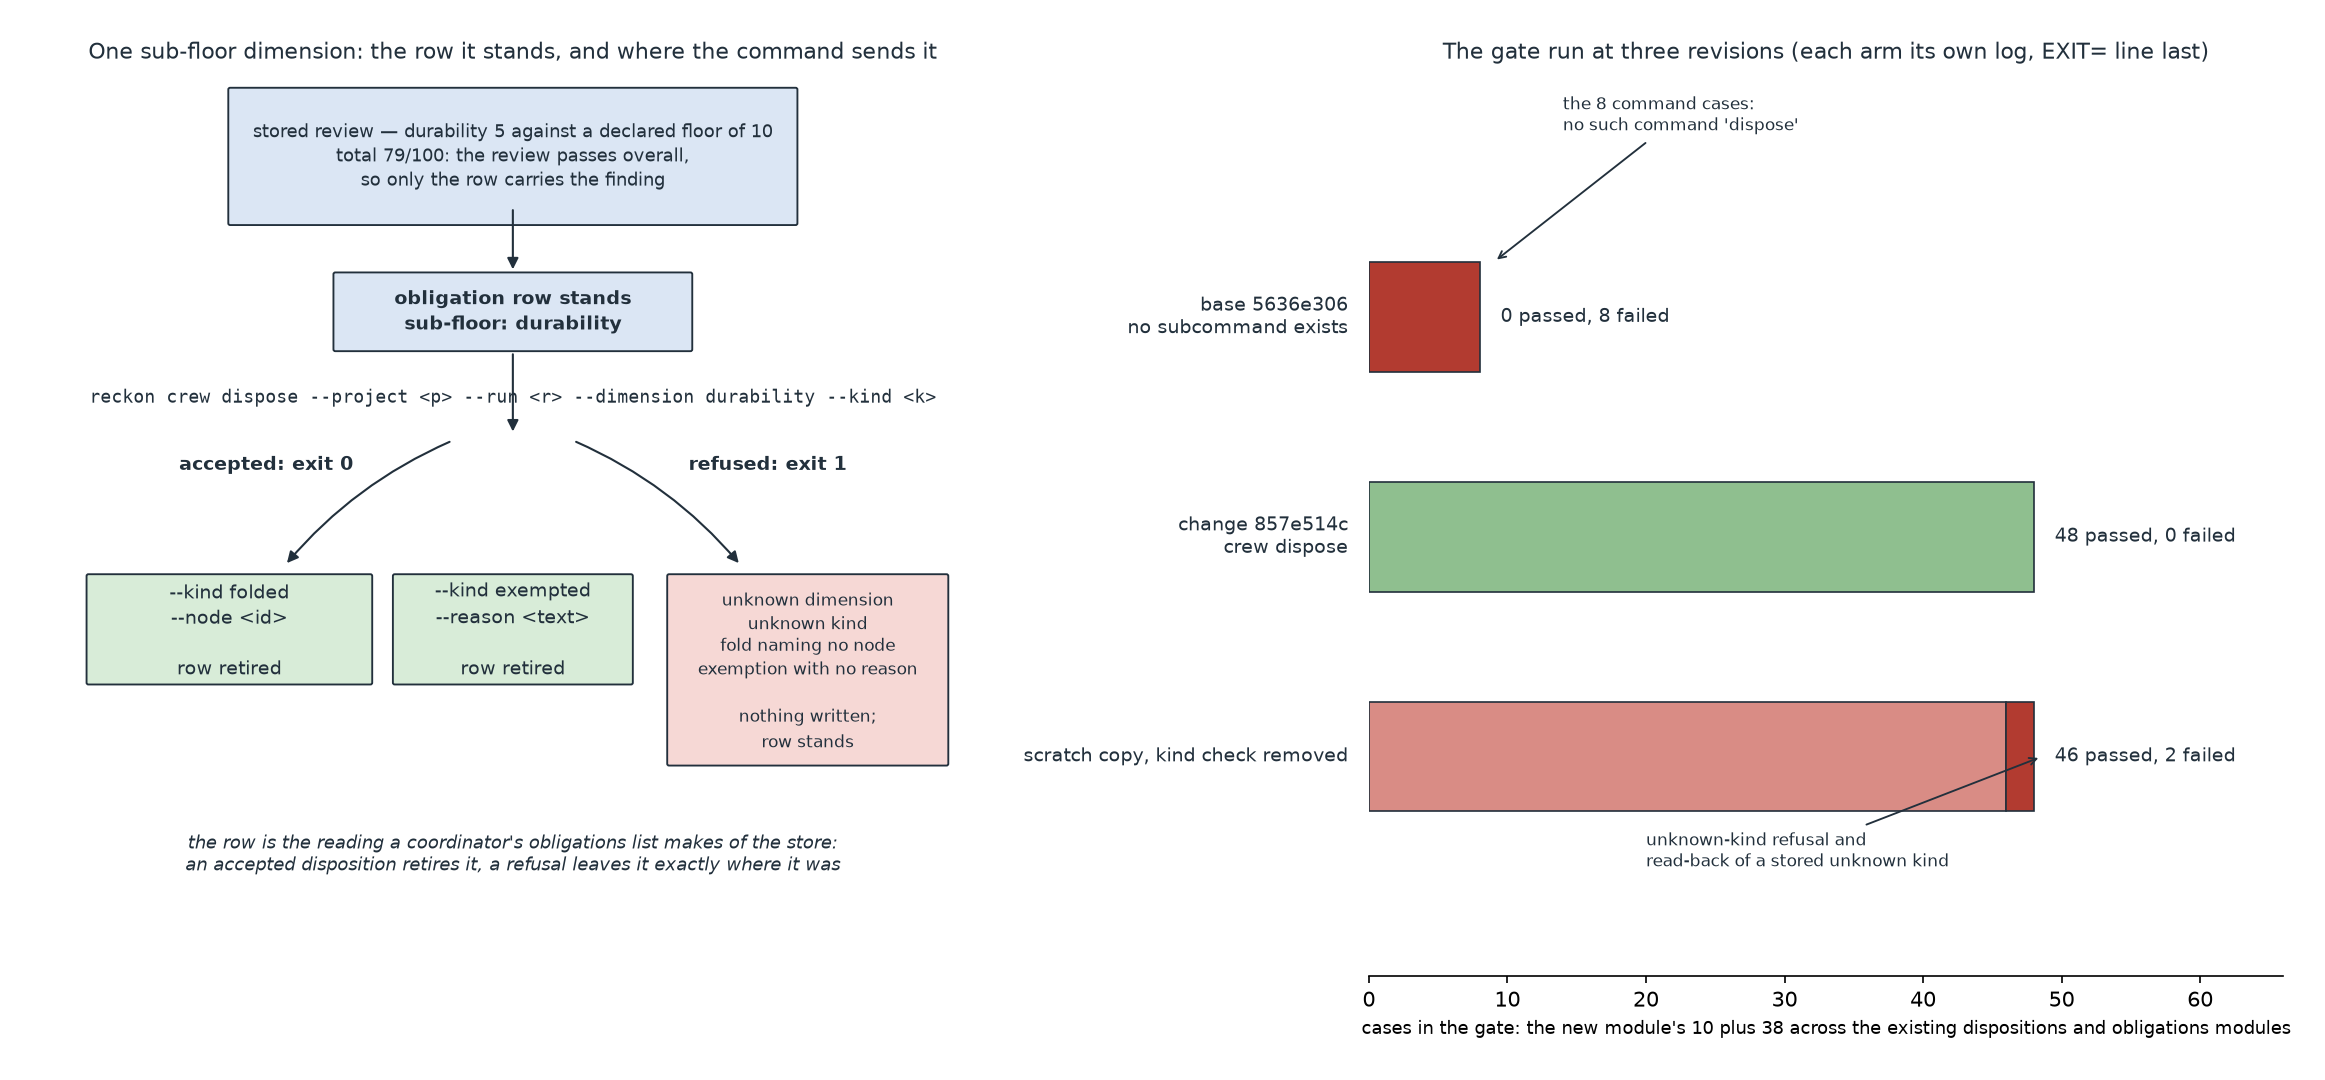
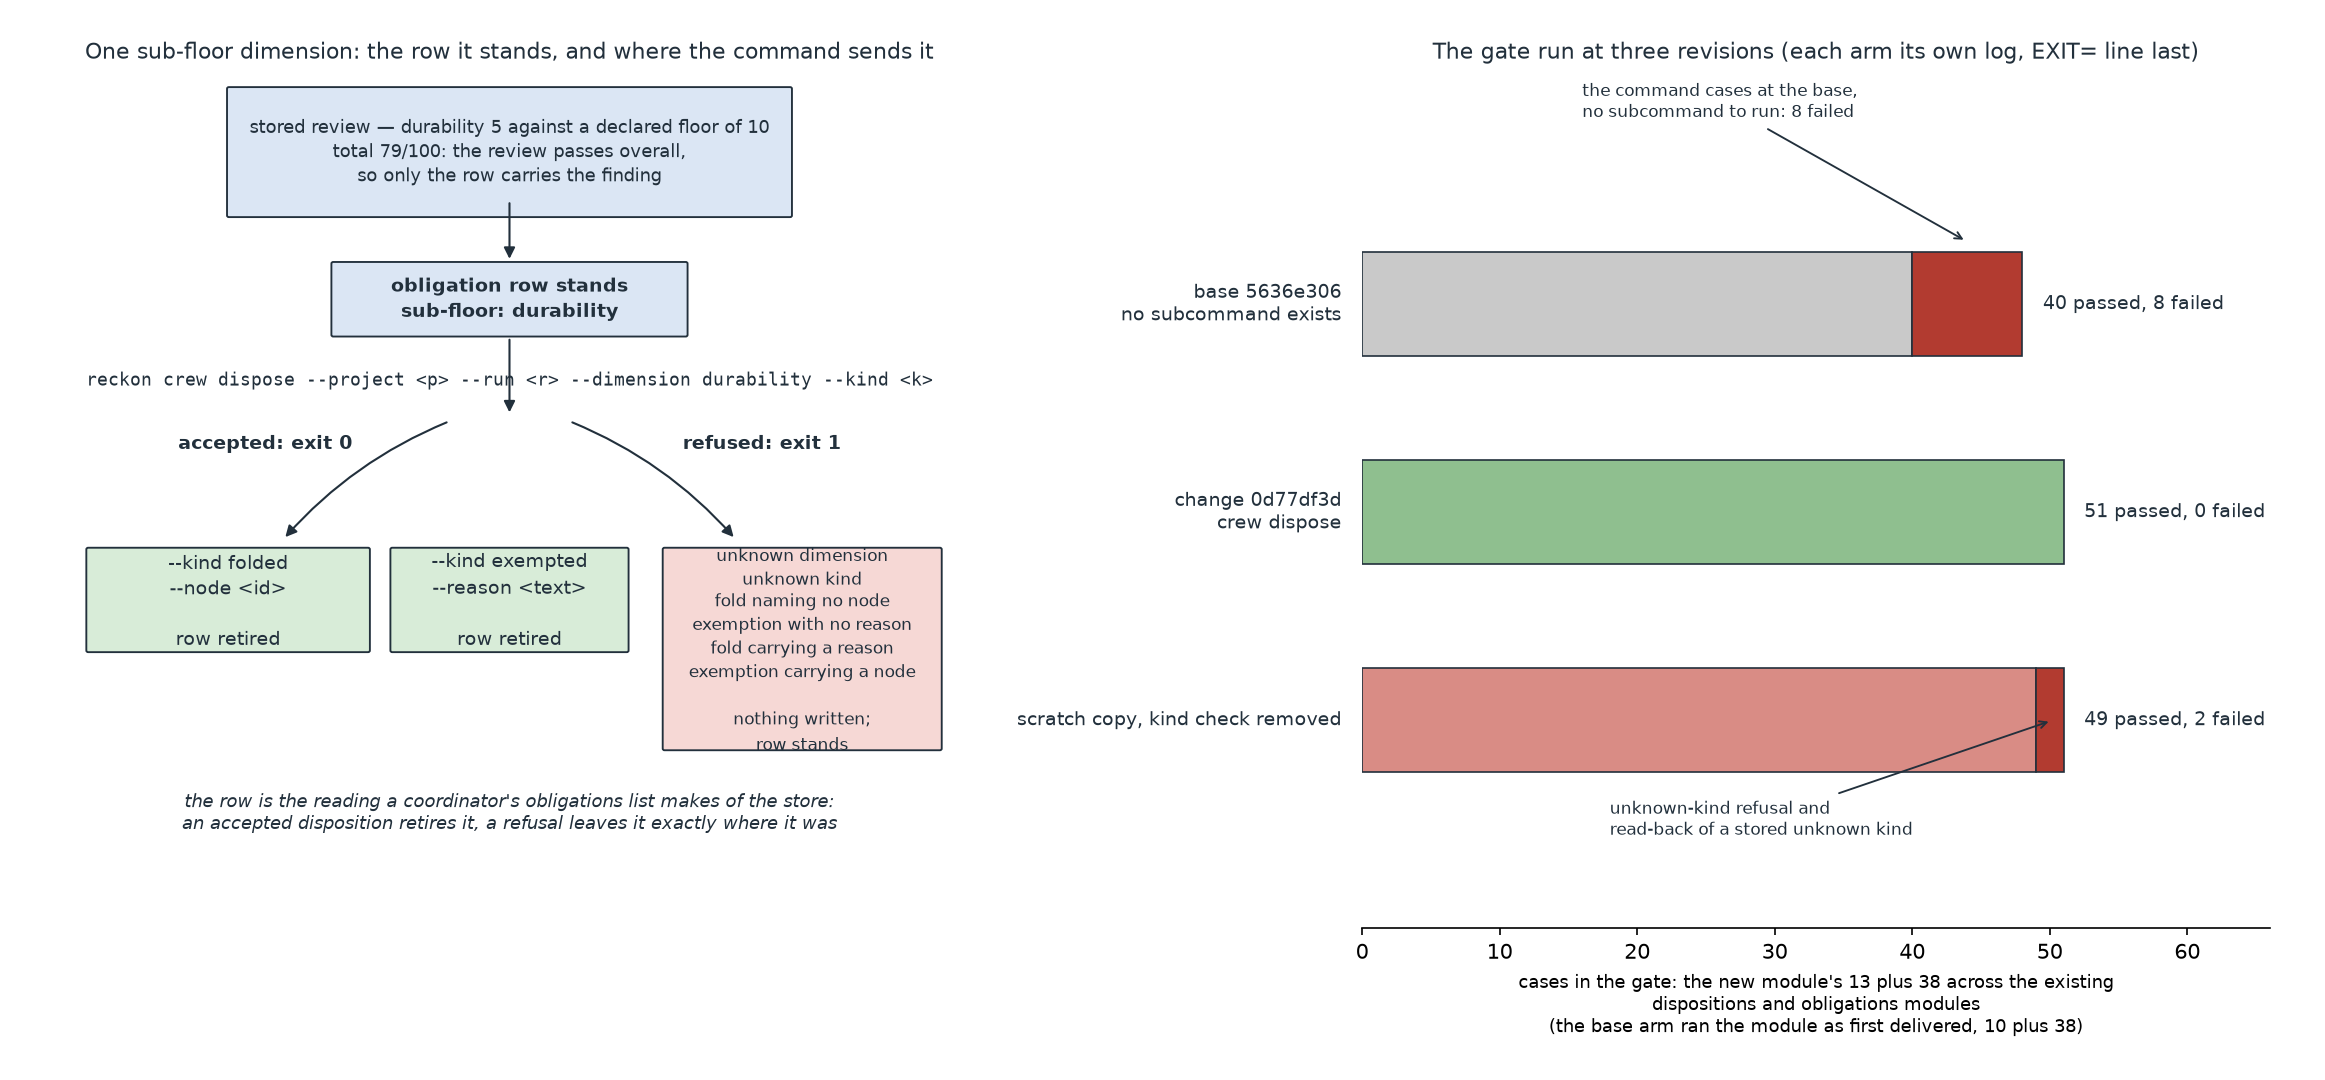
docs(crew): record the disposition repair and correct the gate figure
The evidence fragment carries the record-selection repair. The writer now
rewrites the file it read the review from, the command selects that record
through the reader's own calls, and a fold carrying a reason or an exemption
naming a node is refused by name. The landed bullets, the refusals table and
the case count follow.

The figure's base arm is corrected to the numbers its own log reports: 8
failed against 40 passed, with the command cases marked in its bar. Its
refusal box lists the two refusals the repaired gate asserts. The arms table
gains the pre-repair run, which fails exactly the three cases the repair
answers, and the negative control is recorded at the repaired head.

diff --git a/docs/evidence/fragments/crew-observability-truth/a-sub-floor-disposition-is-written-by-a-command.html b/docs/evidence/fragments/crew-observability-truth/a-sub-floor-disposition-is-written-by-a-command.html
@@ -15,16 +15,20 @@
   <h1>A sub-floor disposition is written by a command</h1>
   <p>A coordinator retires a sub-floor review dimension through <code>reckon crew dispose</code>
   instead of editing the review store by hand. The command writes one entry through
-  <code>record_dimension_disposition</code>, and every refusal is the store's own — so an
-  unknown dimension, a kind outside the closed set, a fold naming no node and an exemption
-  carrying no reason all exit non-zero with nothing written and the obligation row standing.</p>
+  <code>record_dimension_disposition</code>, into the very file the obligations list reads the
+  review from, and every refusal is the store's own — so an unknown dimension, a kind outside
+  the closed set, a fold naming no node, an exemption carrying no reason, a fold carrying a
+  reason and an exemption naming a node all exit non-zero with nothing written and the
+  obligation row standing.</p>
 
   <section id="landed">
     <h2>What landed</h2>
     <ul>
       <li><code>reckon/cli.py</code> — a <code>crew dispose</code> subcommand taking
       <code>--project</code>, <code>--run</code>, <code>--dimension</code>, <code>--kind</code>,
-      and whichever of <code>--node</code> / <code>--reason</code> the kind requires. It writes
+      and whichever of <code>--node</code> / <code>--reason</code> the kind requires. It resolves
+      the reviewed head and selects the stored record through the reader's own calls
+      (<code>recovery.select_review_for_head</code>), writes
       through <code>review.record_dimension_disposition</code> and re-reads the stored record for the
       receipt, so the reply repeats what the store now holds rather than what the call intended
       (<code>reckon/cli.py:3793</code>).</li>
@@ -32,13 +36,23 @@
       reader's own predicate <code>dimension_disposition_valid</code>. A second copy of the
       vocabulary in the writer could accept a kind the read-back then ignores, which stores a row
       that reads as answered and stands.</li>
+      <li><code>reckon/crew/review.py:1042</code> — <code>stored_record</code> returns the file it
+      read beside the record it holds, and <code>record_dimension_disposition</code> writes back
+      into that file. Deriving a target from the record's own fields instead put the entry in a
+      copy the obligations list never reads: a store holding a legacy copy beside the
+      revision-keyed record for one head reported the disposition as recorded while the row
+      stood.</li>
+      <li><code>reckon/crew/review.py:1360</code> — a fold supplied with a reason, or an
+      exemption supplied with a node, is refused by name instead of dropping the field that
+      belongs to the other kind while the call reported success.</li>
       <li><code>reckon/crew/review.py:1166</code> — the floor comment that described a floor of zero
       as reporting every dimension now describes what a floor of zero does.</li>
-      <li><code>tests/test_sub_floor_disposition_has_a_writer.py</code> — 10 cases: the two accepted
-      kinds, five refusals, a hand-planted unknown kind, the shipped floors, and the temporary
-      config home.</li>
+      <li><code>tests/test_sub_floor_disposition_has_a_writer.py</code> — 13 cases: the two accepted
+      kinds, seven refusals, a store holding both records for one head, a hand-planted unknown
+      kind, the shipped floors, and the temporary config home.</li>
     </ul>
-    <p>Commit <code>857e514c</code>. Paths changed: <code>reckon/cli.py</code>,
+    <p>Commits <code>857e514c</code> and <code>0d77df3d</code>, the second resolving which stored
+    record a disposition belongs in. Paths changed: <code>reckon/cli.py</code>,
     <code>reckon/crew/review.py</code>, <code>tests/test_sub_floor_disposition_has_a_writer.py</code>.</p>
   </section>
 
@@ -61,7 +75,7 @@ E        +  where 2 = &lt;Result SystemExit(2)&gt;.exit_code</code></pre>
     <h2>The row's two exits, and the gate measured at three revisions</h2>
     <figure>
       <img src="/reckon/figures/crew-observability-truth/a-sub-floor-disposition-is-written-by-a-command/disposition_lifecycle_and_arm_outcomes.png"
-           alt="Left: a stored review whose durability (5) sits below its declared floor (10) while the total passes stands an obligation row; the command accepts a fold naming a node or an exemption recording a reason, retiring the row, and refuses an unknown dimension, an unknown kind, a fold with no node or an exemption with no reason, leaving the row where it was. Right: the gate run at three revisions — base 0 passed 8 failed, the change 48 passed, and a scratch copy with the kind check removed 46 passed 2 failed.">
+           alt="Left: a stored review whose durability (5) sits below its declared floor (10) while the total passes stands an obligation row; the command accepts a fold naming a node or an exemption recording a reason, retiring the row, and refuses an unknown dimension, an unknown kind, a fold with no node, an exemption with no reason, a fold carrying a reason or an exemption naming a node, leaving the row where it was. Right: the gate run at three revisions — base 40 passed 8 failed, the change 51 passed, and a scratch copy with the kind check removed 49 passed 2 failed.">
       <figcaption>The row the review stands, where each answer sends it, and the gate run at the
       given base, the change, and a mutated scratch copy.</figcaption>
     </figure>
@@ -75,12 +89,17 @@ E        +  where 2 = &lt;Result SystemExit(2)&gt;.exit_code</code></pre>
           <td><code>arms/baseline_suite.log</code></td>
         </tr>
         <tr>
-          <td>change</td><td><code>857e514c</code></td><td>48 passed — <code>EXIT=0</code></td>
+          <td>change</td><td><code>0d77df3d</code></td><td>51 passed — <code>EXIT=0</code></td>
           <td><code>arms/after_suite.log</code></td>
         </tr>
         <tr>
-          <td>scratch copy, kind check removed</td><td><code>857e514c</code> + mutation</td>
-          <td>2 failed, 46 passed — <code>EXIT=1</code></td>
+          <td>pre-repair source, this module beside it</td><td><code>857e514c</code></td>
+          <td>3 failed, 48 passed — <code>EXIT=1</code></td>
+          <td><code>arms/pre_repair.log</code></td>
+        </tr>
+        <tr>
+          <td>scratch copy, kind check removed</td><td><code>0d77df3d</code> + mutation</td>
+          <td>2 failed, 49 passed — <code>EXIT=1</code></td>
           <td><code>arms/negative_control.log</code></td>
         </tr>
       </tbody>
@@ -89,11 +108,16 @@ E        +  where 2 = &lt;Result SystemExit(2)&gt;.exit_code</code></pre>
     obligations list (<code>test_sub_floor_dimension_is_an_obligation.py</code>,
     <code>test_crew_obligations.py</code>, <code>test_mcp_crew_obligations.py</code>,
     <code>test_obligations_do_not_mislead.py</code>, <code>test_coordinator_obligations_hook.py</code>,
-    <code>test_review_in_flight_by_record_path.py</code>). The base arm's failing set is exactly the
-    new module's command cases; no existing file contributes an added failing id at either arm, so
-    the base arm needs no attribution. Each log opens with the revision, the tree, the command and
-    the imported module's resolved path (<code>review.__file__</code>), so a green log cannot be
-    describing another checkout.</p>
+    <code>test_review_in_flight_by_record_path.py</code>). The base arm ran the module as first
+    delivered — 10 cases in a 48-case gate, whose 8 failures are exactly its command cases — and the
+    repaired module carries 13, so the change arm's 51 is 13 plus 38. No existing file contributes
+    an added failing id at either arm, so the base arm needs no attribution. Each log opens with
+    the revision, the tree, the command and the imported module's resolved path
+    (<code>review.__file__</code>), so a green log cannot be describing another checkout.</p>
+    <p>The pre-repair arm is the source at <code>857e514c</code> with this module copied in beside
+    it: it fails exactly the three cases the repair answers — the store holding both records for
+    one head, the fold carrying a reason, and the exemption carrying a node — so each half of the
+    repair is load-bearing rather than covered by a case that would pass either way.</p>
   </section>
 
   <section id="refusals">
@@ -110,12 +134,33 @@ E        +  where 2 = &lt;Result SystemExit(2)&gt;.exit_code</code></pre>
         <tr><td><code>--dimension durability --kind noted</code></td><td><code>unknown disposition 'noted'</code></td></tr>
         <tr><td><code>--dimension durability --kind folded</code></td><td><code>a folded disposition must name the node it was folded into</code></td></tr>
         <tr><td><code>--dimension durability --kind exempted</code></td><td><code>an exempted disposition must record its reason</code></td></tr>
+        <tr><td><code>--dimension durability --kind folded --node &lt;id&gt; --reason &lt;text&gt;</code></td><td><code>a folded disposition carries no reason; record an exemption instead of folding a finding whose reason you are keeping</code></td></tr>
+        <tr><td><code>--dimension durability --kind exempted --reason &lt;text&gt; --node &lt;id&gt;</code></td><td><code>an exempted disposition names no node; record a fold instead of exempting a finding that a node already answers</code></td></tr>
       </tbody>
     </table>
     <p>The refusal is asserted through the same entry point the acceptance is, because a refusal that
     still wrote would be indistinguishable from an accepted call at every later read. The read-back
     case is asserted on its own as well: the store is reachable by hand, so an entry naming a kind
     the closed set does not define is not a disposition however complete its other fields look.</p>
+    <p>Those last two rows refuse a half-answered call: the field belongs to the other kind, so
+    storing the entry would drop it in silence while the reply reported success. Refusing by name
+    leaves the caller to say which kind they meant.</p>
+  </section>
+
+  <section id="record-selection">
+    <h2>Which stored record the entry belongs in</h2>
+    <p>A store can hold two records for one head: the review at the revision-keyed path, and a
+    legacy copy beside it carrying the same head — the shape this plan's own review store holds.
+    The obligations list reads the row through <code>recovery.select_review_for_head</code>, which
+    takes the first candidate carrying the head, and the identity path is a candidate before any
+    keyed one. The command selected the newest record instead, and the writer re-derived its target
+    from the record's own fields, so on such a store the entry could land in the file the reader
+    never reads: the reply named a path and reported success while the sub-floor row stayed.</p>
+    <p>The new case asserts the premise first — both files for one head, the reader resolving the
+    legacy copy, the row standing — and after the call requires the row gone and the disposition in
+    exactly the file <code>stored_record</code> reports reading. Against the pre-repair source it
+    fails with the command exiting 0 while the row stands, which is what makes it load-bearing
+    rather than a case that would pass either way.</p>
   </section>
 
   <section id="negative-control">
@@ -124,11 +169,11 @@ E        +  where 2 = &lt;Result SystemExit(2)&gt;.exit_code</code></pre>
     <code>dimension_disposition_valid</code>, and the gate run against it fails on exactly the two
     cases that read the closed set — the unknown-kind call now exits 0 and stores
     <code>{"kind": "noted", "reason": "shorthand", …}</code>, and the hand-planted entry is now
-    honoured by the read-back. The other 46 cases, including the four refusals the mutation cannot
+    honoured by the read-back. The other 49 cases, including the six refusals the mutation cannot
     reach, stay green.</p>
     <pre><code>FAILED …::test_a_refused_disposition_leaves_the_row_standing[unknown-kind-with-a-reason]
 FAILED …::test_a_kind_outside_the_closed_set_is_not_honoured_when_stored
-2 failed, 46 passed in 97.78s (0:01:37)
+2 failed, 49 passed in 98.08s (0:01:38)
 EXIT=1</code></pre>
   </section>
 

diff --git a/docs/figures/crew-observability-truth/a-sub-floor-disposition-is-written-by-a-command/disposition_lifecycle_and_arm_outcomes.py b/docs/figures/crew-observability-truth/a-sub-floor-disposition-is-written-by-a-command/disposition_lifecycle_and_arm_outcomes.py
@@ -134,13 +134,15 @@ def draw_lifecycle(ax) -> None:
     _box(
         ax,
         6.7,
-        2.35,
-        3.05,
         2.1,
+        3.05,
+        2.35,
         "unknown dimension\n"
         "unknown kind\n"
         "fold naming no node\n"
         "exemption with no reason\n"
+        "fold carrying a reason\n"
+        "exemption carrying a node\n"
         "\n"
         "nothing written;\nrow stands",
         face=REFUSE,
@@ -161,9 +163,9 @@ def draw_lifecycle(ax) -> None:
 
 def draw_arms(ax) -> None:
     arms = [
-        ("base 5636e306\nno subcommand exists", 0, 8, "#c9c9c9"),
-        ("change 857e514c\ncrew dispose", 48, 0, "#8fbf8f"),
-        ("scratch copy, kind check removed", 46, 2, "#d98c85"),
+        ("base 5636e306\nno subcommand exists", 40, 8, "#c9c9c9"),
+        ("change 0d77df3d\ncrew dispose", 51, 0, "#8fbf8f"),
+        ("scratch copy, kind check removed", 49, 2, "#d98c85"),
     ]
     ys = [2.0, 1.0, 0.0]
     for (label, passed, failed, colour), y in zip(arms, ys, strict=True):
@@ -190,17 +192,17 @@ def draw_arms(ax) -> None:
         )
 
     ax.annotate(
-        "the 8 command cases:\nno such command 'dispose'",
-        xy=(9, 2.25),
-        xytext=(14, 2.85),
+        "the command cases at the base,\nno subcommand to run: 8 failed",
+        xy=(44, 2.3),
+        xytext=(16, 2.9),
         fontsize=8.4,
         color=INK,
         arrowprops={"arrowstyle": "->", "color": INK, "linewidth": 0.9},
     )
     ax.annotate(
         "unknown-kind refusal and\nread-back of a stored unknown kind",
-        xy=(48.6, 0.0),
-        xytext=(20, -0.5),
+        xy=(50.2, 0.0),
+        xytext=(18, -0.55),
         fontsize=8.4,
         color=INK,
         arrowprops={"arrowstyle": "->", "color": INK, "linewidth": 0.9},
@@ -209,7 +211,12 @@ def draw_arms(ax) -> None:
     ax.set_xlim(0, 66)
     ax.set_ylim(-1.0, 3.1)
     ax.set_yticks([])
-    ax.set_xlabel("cases in the gate: the new module's 10 plus 38 across the existing dispositions and obligations modules", fontsize=8.8)
+    ax.set_xlabel(
+        "cases in the gate: the new module's 13 plus 38 across the existing\n"
+        "dispositions and obligations modules\n"
+        "(the base arm ran the module as first delivered, 10 plus 38)",
+        fontsize=8.8,
+    )
     ax.set_title(
         "The gate run at three revisions (each arm its own log, EXIT= line last)",
         fontsize=10.5,
